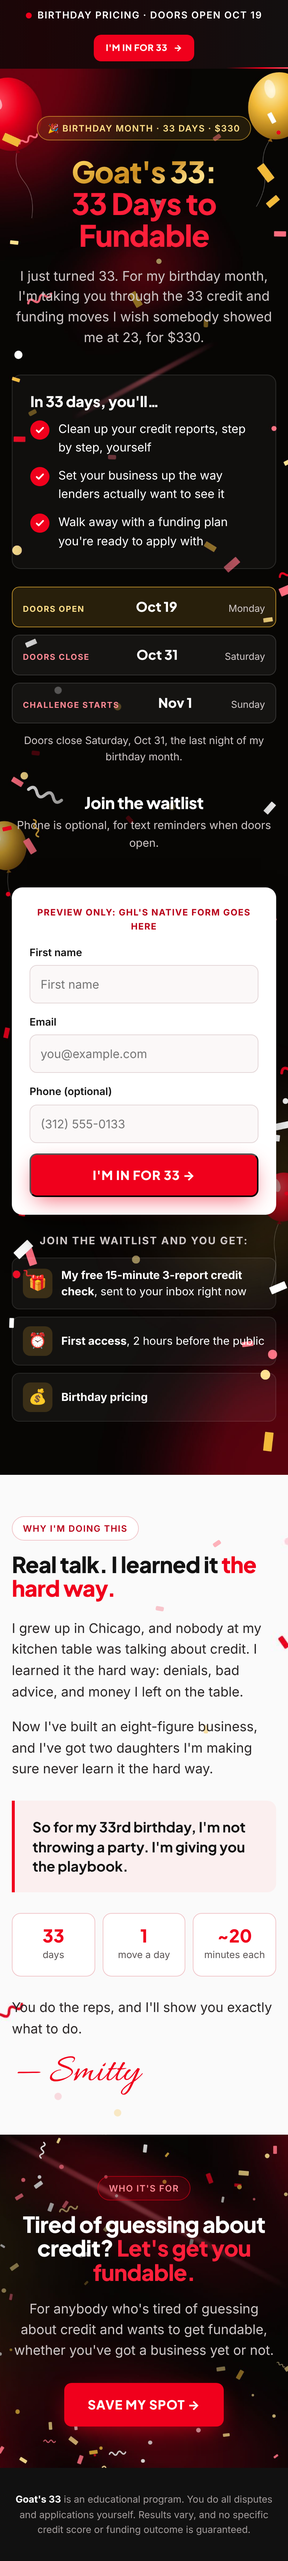
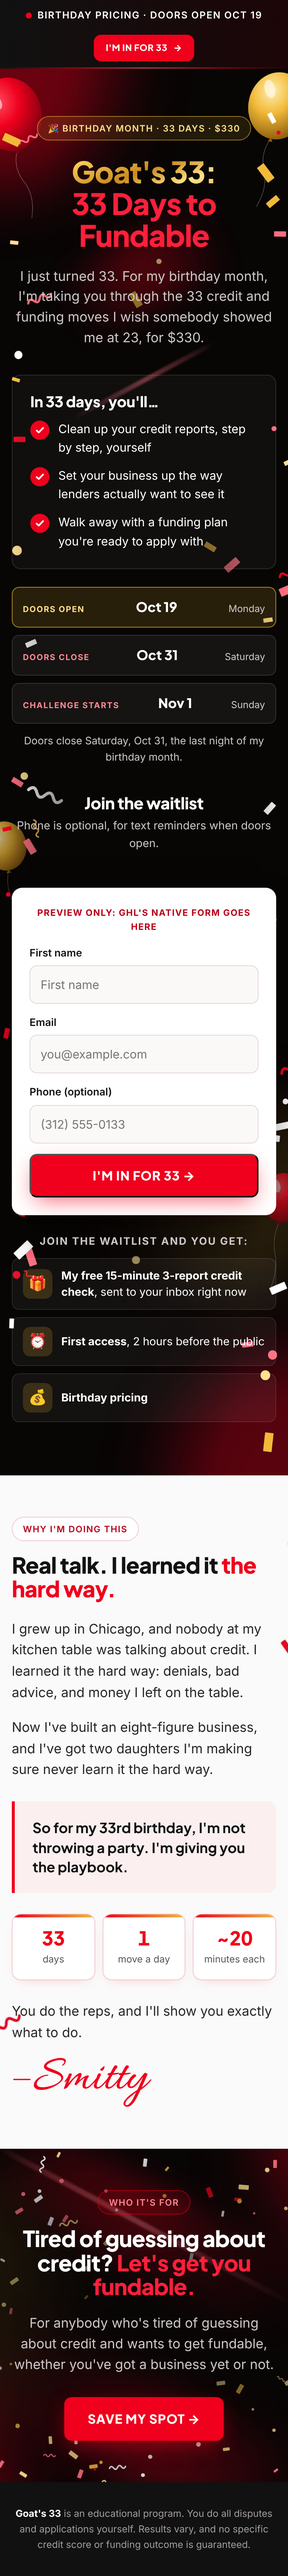
Animate the Goat's 33 stat row and make the signature font-proof
Stat cards rise in, count up and pop when scrolled into view, with a
red-gold accent bar and hover lift. The signature is now an inline SVG
traced from Allura that writes itself in, since GHL fell back to Comic
Sans when the web font didn't load. The top bar also links the page
fonts in case GHL ignores the @import.

Claude-Session: https://claude.ai/code/session_016EWm4T9j3p357VgxQ4fA9k

diff --git a/funnel/goats-33/preview/registration.html b/funnel/goats-33/preview/registration.html
@@ -3,7 +3,7 @@
 <style>/* Goat's 33 · GLOBAL STYLES (pure CSS)
    Paste ONCE per page into GHL: Page Settings → Custom CSS. Paste the whole file, nothing else.
    Every block depends on this. To rebrand, change the --wf-* colors below. */
-@import url("https://fonts.googleapis.com/css2?family=Inter:wght@400;500;600;700&family=Plus+Jakarta+Sans:wght@700;800&family=Allura&display=swap");
+@import url("https://fonts.googleapis.com/css2?family=Inter:wght@400;500;600;700&family=Plus+Jakarta+Sans:wght@700;800&display=swap");
 
 :root, .wf {
   --wf-red: #F0001C;
@@ -139,10 +139,33 @@ html { scroll-behavior: smooth; }
 .wf-why__callout { margin: 28px 0; padding: 22px 24px; border-left: 4px solid var(--wf-red); border-radius: 0 var(--wf-radius) var(--wf-radius) 0;
   background: var(--wf-blush); font-family: var(--wf-head); font-weight: 700; font-size: 21px; line-height: 1.4; color: var(--wf-ink); }
 .wf-stats { display: grid; grid-template-columns: repeat(3, 1fr); gap: 10px; margin: 0 0 28px; }
-.wf-stat { text-align: center; padding: 16px 8px; border: 1px solid var(--wf-blush-line); border-radius: var(--wf-radius); background: #fff; }
-.wf-stat b { display: block; font-family: var(--wf-head); font-weight: 800; font-size: 30px; color: var(--wf-red); line-height: 1.1; }
+.wf-stat { position: relative; overflow: hidden; text-align: center; padding: 18px 8px 16px; border: 1px solid var(--wf-blush-line); border-radius: var(--wf-radius);
+  background: #fff; box-shadow: 0 6px 18px -10px rgba(240,0,28,.25); transition: transform .25s, box-shadow .25s, border-color .25s; }
+.wf-stat::before { content: ""; position: absolute; left: 0; right: 0; top: 0; height: 4px; background: linear-gradient(90deg, var(--wf-red), var(--wf-gold), var(--wf-red));
+  background-size: 200% 100%; animation: wf-stat-bar 4s linear infinite; }
+.wf-stat:hover { transform: translateY(-4px); border-color: var(--wf-red); box-shadow: 0 16px 30px -12px rgba(240,0,28,.45); }
+.wf-stat b { display: block; font-family: var(--wf-head); font-weight: 800; font-size: 34px; color: var(--wf-red); line-height: 1.1; font-variant-numeric: tabular-nums; }
 .wf-stat span { font-size: 13px; color: var(--wf-muted); }
-.wf-sign { font-family: "Allura", cursive; font-size: 54px; line-height: 1; color: var(--wf-red); margin-top: 8px; }
+.wf-stat.is-done b { animation: wf-stat-pop .5s cubic-bezier(.3, 1.6, .5, 1); }
+@keyframes wf-stat-bar { to { background-position: -200% 0; } }
+@keyframes wf-stat-pop { 50% { transform: scale(1.18); text-shadow: 0 0 18px rgba(240,0,28,.45); } }
+/* Scroll-in states: only when JS has marked the section (.wf-anim) */
+.wf-anim .wf-stat { opacity: 0; transform: translateY(24px); }
+.wf-anim .wf-stats.is-in .wf-stat { opacity: 1; transform: none; transition: opacity .6s, transform .6s cubic-bezier(.2, .8, .2, 1), box-shadow .25s, border-color .25s; }
+.wf-anim .wf-stats.is-in .wf-stat:nth-child(2) { transition-delay: .15s; }
+.wf-anim .wf-stats.is-in .wf-stat:nth-child(3) { transition-delay: .3s; }
+.wf-anim .wf-stats.is-in .wf-stat:hover { transform: translateY(-4px); transition-delay: 0s; }
+
+/* Signature: an inline SVG (no font needed) that writes itself in */
+.wf-sign { display: block; width: 230px; height: auto; margin-top: 6px; overflow: visible; }
+.wf-sign path { fill: var(--wf-red); stroke: var(--wf-red); stroke-width: 6; stroke-linecap: round; stroke-linejoin: round; }
+.wf-sign__dash { fill: none !important; stroke-width: 26 !important; }
+.wf-anim .wf-sign path { stroke-dasharray: 1; stroke-dashoffset: 1; fill-opacity: 0; }
+.wf-anim .wf-sign.is-in .wf-sign__dash { animation: wf-sign-draw .4s ease-out forwards; }
+.wf-anim .wf-sign.is-in .wf-sign__name { animation: wf-sign-draw 2.2s ease-in-out .3s forwards, wf-sign-fill .6s ease-out 2.2s forwards; }
+@keyframes wf-sign-draw { to { stroke-dashoffset: 0; } }
+@keyframes wf-sign-fill { to { fill-opacity: 1; } }
+@media (prefers-reduced-motion: reduce) { .wf-stat::before { animation: none; } }
 
 /* Who it's for */
 .wf-who h2 { margin: 16px 0 20px; }
@@ -160,7 +183,8 @@ html { scroll-behavior: smooth; }
   .wf-date { display: flex; align-items: baseline; justify-content: space-between; gap: 8px; text-align: left; padding: 12px 14px; }
   .wf-date__day { margin-top: 0; }
   .wf-top__msg { width: 100%; text-align: center; }
-  .wf-stat b { font-size: 24px; }
+  .wf-stat b { font-size: 26px; }
+  .wf-sign { width: 190px; }
   .wf-why__callout { font-size: 19px; }
 }
 </style><style>
@@ -178,6 +202,8 @@ body{margin:0;background:#0A0606}
 <!-- Goat's 33 · 01 TOP BAR · own GHL section, padding 0, no background
      Effects: pulsing live dot, red light sweeping the bottom edge, button shine + arrow nudge.
      All motion stops for visitors who have "reduce motion" turned on. -->
+<!-- Loads the page fonts too, in case GHL ignores the @import in Custom CSS. -->
+<link rel="stylesheet" href="https://fonts.googleapis.com/css2?family=Inter:wght@400;500;600;700&family=Plus+Jakarta+Sans:wght@700;800&display=swap">
 <style>
   .wf-top { position: relative; overflow: hidden;
     background: linear-gradient(90deg, #111 0%, #1c0507 50%, #111 100%); background-size: 200% 100%;
@@ -274,14 +300,45 @@ body{margin:0;background:#0A0606}
     </div>
     <div class="wf-why__callout">So for my 33rd birthday, I'm not throwing a party. I'm giving you the playbook.</div>
     <div class="wf-stats">
-      <div class="wf-stat"><b>33</b><span>days</span></div>
-      <div class="wf-stat"><b>1</b><span>move a day</span></div>
-      <div class="wf-stat"><b>~20</b><span>minutes each</span></div>
+      <div class="wf-stat"><b data-count="33">33</b><span>days</span></div>
+      <div class="wf-stat"><b data-count="1">1</b><span>move a day</span></div>
+      <div class="wf-stat"><b data-count="20" data-prefix="~">~20</b><span>minutes each</span></div>
     </div>
     <p class="wf-why__body">You do the reps, and I'll show you exactly what to do.</p>
-    <div class="wf-sign" aria-label="Smitty">— Smitty</div>
+    <svg class="wf-sign" viewBox="-427 -614 2787 1003" role="img" aria-label="Smitty"><path class="wf-sign__dash" pathLength="1" d="M-387 -170 H-67"/><path class="wf-sign__name" pathLength="1" d="M163 34Q93 34 53 10.5Q13 -13 13 -56Q13 -100 39 -137.5Q65 -175 106.5 -202.5Q148 -230 193.5 -245.5Q239 -261 278 -261Q298 -261 298 -255Q298 -246 277 -246Q240 -246 196.5 -228.0Q153 -210 119 -178Q92 -154 78.5 -129.5Q65 -105 65 -84Q65 -53 94 -32.5Q123 -12 181 -12Q215 -12 250 -17.5Q285 -23 313.5 -30.0Q342 -37 357 -41Q394 -53 431.5 -70.0Q469 -87 499 -108.5Q529 -130 543 -152Q551 -164 554.5 -175.0Q558 -186 558 -196Q558 -224 533 -243.5Q508 -263 469 -279.0Q430 -295 386 -309.5Q342 -324 303 -340.0Q264 -356 239 -376.5Q214 -397 214 -426Q214 -459 238.5 -485.5Q263 -512 301.5 -532.5Q340 -553 384 -566.5Q428 -580 468 -587.0Q508 -594 534 -594Q644 -594 644 -539Q644 -517 626 -488Q618 -473 603 -459.5Q588 -446 580 -446Q574 -446 574 -453Q574 -456 585 -465.5Q596 -475 607 -489.0Q618 -503 618 -517Q618 -538 594.5 -549.0Q571 -560 533 -560Q515 -560 481 -554.5Q447 -549 407 -537.0Q367 -525 330 -505Q261 -467 261 -440Q261 -420 300 -402Q329 -389 367 -375.0Q405 -361 444 -345.0Q483 -329 516.5 -309.0Q550 -289 570.5 -264.5Q591 -240 591 -209Q591 -167 545 -123Q509 -89 461.5 -60.0Q414 -31 361.5 -10.0Q309 11 258 22.5Q207 34 163 34Z M614 13Q606 13 609 6Q613 -1 623.5 -29.5Q634 -58 647.5 -97.0Q661 -136 674 -172Q664 -157 652.5 -143.0Q641 -129 633 -120Q630 -117 629 -117Q626 -117 626 -123Q626 -135 632 -145Q653 -172 664 -187.5Q675 -203 682.5 -215.5Q690 -228 698 -244Q700 -255 705.5 -271.0Q711 -287 732 -287Q763 -287 763 -274Q763 -270 761 -265.5Q759 -261 757 -256Q745 -229 731 -194.0Q717 -159 705.5 -128.0Q694 -97 688 -80Q699 -94 721 -119.5Q743 -145 771.5 -175.5Q800 -206 830.5 -233.5Q861 -261 888 -279.0Q915 -297 934 -297Q957 -297 957 -271Q957 -251 941 -219Q934 -204 922 -178.5Q910 -153 903 -140Q921 -156 944 -175.5Q967 -195 992.5 -212.0Q1018 -229 1040 -237Q1045 -239 1060 -243.5Q1075 -248 1086 -248Q1101 -248 1101 -238Q1101 -231 1094 -223Q1077 -197 1063.5 -167.5Q1050 -138 1042 -112.0Q1034 -86 1032 -70Q1031 -66 1031 -62.5Q1031 -59 1031 -55Q1031 -15 1057 -15Q1073 -15 1098 -32.5Q1123 -50 1149 -75.5Q1175 -101 1196.5 -124.5Q1218 -148 1226 -160Q1229 -163 1232 -163Q1236 -163 1238.5 -160.0Q1241 -157 1239 -152Q1230 -135 1208.5 -109.5Q1187 -84 1160.5 -58.5Q1134 -33 1109 -15Q1096 -5 1076.5 2.5Q1057 10 1037 10Q1019 10 1004.5 2.0Q990 -6 983 -28Q980 -37 980 -51Q980 -73 986 -101.0Q992 -129 999 -148Q1004 -162 1012.5 -179.5Q1021 -197 1028 -209Q997 -197 968 -173.0Q939 -149 915.5 -124.5Q892 -100 876 -84Q872 -73 860.5 -66.0Q849 -59 839 -59Q824 -59 824 -72Q824 -77 827 -84Q837 -108 849.5 -133.5Q862 -159 872.5 -180.0Q883 -201 887 -209Q895 -223 895 -231Q895 -239 888 -239Q881 -239 865 -230.0Q849 -221 823 -198Q802 -179 777 -148.5Q752 -118 729 -86.0Q706 -54 688.5 -31.0Q671 -8 664 -4Q658 -1 640.5 6.0Q623 13 614 13Z M1372 -348Q1359 -348 1345 -350.5Q1331 -353 1331 -369Q1331 -372 1344.5 -383.0Q1358 -394 1372.5 -405.5Q1387 -417 1390 -419Q1407 -433 1411 -433Q1416 -433 1411 -420.0Q1406 -407 1406 -397Q1406 -392 1400 -380.0Q1394 -368 1386 -358.0Q1378 -348 1372 -348ZM1263 10Q1245 10 1230.5 2.0Q1216 -6 1209 -28Q1208 -31 1207.5 -34.0Q1207 -37 1207 -41Q1207 -61 1216 -91.0Q1225 -121 1238 -149Q1232 -141 1224 -129.5Q1216 -118 1201 -100Q1197 -96 1192 -96Q1185 -96 1185 -104Q1185 -110 1189 -114Q1215 -147 1235.5 -173.0Q1256 -199 1266 -217Q1266 -218 1265.5 -218.5Q1265 -219 1265 -220Q1265 -223 1268 -229Q1276 -253 1284.5 -269.5Q1293 -286 1303 -288Q1305 -288 1307 -288.5Q1309 -289 1311 -289Q1322 -289 1331 -284.0Q1340 -279 1340 -269Q1340 -260 1333.5 -247.0Q1327 -234 1317 -215Q1295 -169 1277.5 -131.5Q1260 -94 1258 -70Q1257 -66 1257 -62.5Q1257 -59 1257 -55Q1257 -15 1283 -15Q1299 -15 1324 -32.5Q1349 -50 1375 -75.5Q1401 -101 1422.5 -124.5Q1444 -148 1452 -160Q1455 -163 1458 -163Q1462 -163 1464.5 -160.0Q1467 -157 1465 -152Q1456 -135 1434.5 -109.5Q1413 -84 1386.5 -58.5Q1360 -33 1335 -15Q1322 -5 1302.5 2.5Q1283 10 1263 10Z M1489 10Q1471 10 1456.5 2.0Q1442 -6 1435 -28Q1434 -31 1433.5 -34.0Q1433 -37 1433 -41Q1433 -61 1442 -91.0Q1451 -121 1464 -149Q1458 -141 1450 -129.5Q1442 -118 1427 -100Q1423 -96 1418 -96Q1411 -96 1411 -104Q1411 -110 1415 -114Q1441 -147 1461.5 -173.0Q1482 -199 1492 -217Q1492 -219 1498 -229.5Q1504 -240 1514 -259Q1506 -258 1500.5 -257.5Q1495 -257 1491 -257Q1484 -257 1479 -263.0Q1474 -269 1478 -278Q1483 -292 1500 -294.0Q1517 -296 1530 -297Q1531 -299 1534 -299Q1546 -321 1557 -342.0Q1568 -363 1575.5 -377.0Q1583 -391 1583 -392Q1603 -424 1609 -434.5Q1615 -445 1625 -447Q1636 -448 1648.5 -446.0Q1661 -444 1665 -437Q1668 -433 1668 -427Q1668 -418 1664 -409.5Q1660 -401 1656 -396Q1652 -389 1645.5 -386.5Q1639 -384 1634 -374Q1624 -355 1612 -333.0Q1600 -311 1587 -291L1599 -292Q1623 -294 1644.5 -297.0Q1666 -300 1694 -299Q1699 -299 1704.5 -297.5Q1710 -296 1710 -293Q1710 -289 1684 -282Q1674 -278 1640.5 -273.5Q1607 -269 1572 -265Q1562 -246 1554 -233.5Q1546 -221 1543 -215Q1521 -169 1503.5 -131.5Q1486 -94 1484 -70Q1483 -66 1483 -62.5Q1483 -59 1483 -55Q1483 -15 1509 -15Q1525 -15 1550 -32.5Q1575 -50 1601 -75.5Q1627 -101 1648.5 -124.5Q1670 -148 1678 -160Q1681 -163 1684 -163Q1688 -163 1690.5 -160.0Q1693 -157 1691 -152Q1682 -135 1660.5 -109.5Q1639 -84 1612.5 -58.5Q1586 -33 1561 -15Q1548 -5 1528.5 2.5Q1509 10 1489 10Z M1715 10Q1697 10 1682.5 2.0Q1668 -6 1661 -28Q1660 -31 1659.5 -34.0Q1659 -37 1659 -41Q1659 -61 1668 -91.0Q1677 -121 1690 -149Q1684 -141 1676 -129.5Q1668 -118 1653 -100Q1649 -96 1644 -96Q1637 -96 1637 -104Q1637 -110 1641 -114Q1667 -147 1687.5 -173.0Q1708 -199 1718 -217Q1718 -219 1724 -229.5Q1730 -240 1740 -259Q1732 -258 1726.5 -257.5Q1721 -257 1717 -257Q1710 -257 1705 -263.0Q1700 -269 1704 -278Q1709 -292 1726 -294.0Q1743 -296 1756 -297Q1757 -299 1760 -299Q1772 -321 1783 -342.0Q1794 -363 1801.5 -377.0Q1809 -391 1809 -392Q1829 -424 1835 -434.5Q1841 -445 1851 -447Q1862 -448 1874.5 -446.0Q1887 -444 1891 -437Q1894 -433 1894 -427Q1894 -418 1890 -409.5Q1886 -401 1882 -396Q1878 -389 1871.5 -386.5Q1865 -384 1860 -374Q1850 -355 1838 -333.0Q1826 -311 1813 -291L1825 -292Q1849 -294 1870.5 -297.0Q1892 -300 1920 -299Q1925 -299 1930.5 -297.5Q1936 -296 1936 -293Q1936 -289 1910 -282Q1900 -278 1866.5 -273.5Q1833 -269 1798 -265Q1788 -246 1780 -233.5Q1772 -221 1769 -215Q1747 -169 1729.5 -131.5Q1712 -94 1710 -70Q1709 -66 1709 -62.5Q1709 -59 1709 -55Q1709 -15 1735 -15Q1751 -15 1776 -32.5Q1801 -50 1827 -75.5Q1853 -101 1874.5 -124.5Q1896 -148 1904 -160Q1907 -163 1910 -163Q1914 -163 1916.5 -160.0Q1919 -157 1917 -152Q1908 -135 1886.5 -109.5Q1865 -84 1838.5 -58.5Q1812 -33 1787 -15Q1774 -5 1754.5 2.5Q1735 10 1715 10Z M1850 367Q1838 364 1829 361Q1810 351 1802 338.5Q1794 326 1794 312Q1794 289 1809.5 262.5Q1825 236 1850 208Q1875 178 1913.5 147.0Q1952 116 1994 87.5Q2036 59 2068 38Q2085 3 2103.5 -37.0Q2122 -77 2139 -114.5Q2156 -152 2168.5 -183.0Q2181 -214 2187 -231Q2171 -212 2150 -183.5Q2129 -155 2104 -123.5Q2079 -92 2052.5 -64.0Q2026 -36 1998 -18.5Q1970 -1 1943 -1Q1903 -1 1887.5 -21.5Q1872 -42 1872 -70Q1872 -90 1877.5 -110.0Q1883 -130 1892 -147Q1898 -159 1911 -179.0Q1924 -199 1941 -220.0Q1958 -241 1975.5 -255.0Q1993 -269 2009 -269Q2028 -269 2038 -255.5Q2048 -242 2040 -237Q2024 -226 2000.5 -203.5Q1977 -181 1954 -152Q1948 -144 1939.5 -127.0Q1931 -110 1924 -90.5Q1917 -71 1917 -55Q1917 -48 1919 -41.5Q1921 -35 1926 -32Q1934 -26 1944 -26Q1958 -26 1975.5 -35.0Q1993 -44 2009 -58Q2065 -112 2109 -171.0Q2153 -230 2202 -288Q2205 -298 2219 -298Q2235 -298 2252.5 -288.5Q2270 -279 2267 -273Q2258 -253 2243.5 -220.0Q2229 -187 2212 -149.0Q2195 -111 2178 -73.5Q2161 -36 2147 -6Q2159 -12 2190 -36.0Q2221 -60 2258 -94.5Q2295 -129 2325 -166Q2331 -172 2334 -172Q2340 -172 2340 -164Q2340 -157 2334 -148Q2319 -128 2292.5 -101.0Q2266 -74 2235.5 -46.5Q2205 -19 2176 3.5Q2147 26 2126 38Q2095 104 2066 162.5Q2037 221 2013 257Q1997 282 1974 308.0Q1951 334 1924 351.5Q1897 369 1867 369Q1863 369 1859 368.5Q1855 368 1850 367ZM1853 345Q1861 345 1872.5 340.0Q1884 335 1897 324Q1935 293 1961 251.5Q1987 210 2007.5 164.0Q2028 118 2049 76Q2010 105 1961 144.5Q1912 184 1872 223Q1848 247 1837 270.5Q1826 294 1826 312Q1826 345 1853 345Z"/></svg>
   </div>
 </div>
+<script>
+/* Stat cards rise in and count up, and the signature writes itself, when each scrolls into view.
+   Without JS, or with reduced motion on, everything simply shows in its final state. */
+(function () {
+  if (!('IntersectionObserver' in window) || matchMedia('(prefers-reduced-motion: reduce)').matches) return;
+  function countUp(el, delay) {
+    var to = +el.dataset.count, pre = el.dataset.prefix || '', t0 = null, dur = 1400;
+    el.textContent = pre + 0;
+    setTimeout(function () {
+      requestAnimationFrame(function step(ts) {
+        t0 = t0 || ts;
+        var k = Math.min((ts - t0) / dur, 1);
+        el.textContent = pre + Math.round(to * (1 - Math.pow(1 - k, 3)));
+        if (k < 1) requestAnimationFrame(step); else el.parentNode.classList.add('is-done');
+      });
+    }, delay);
+  }
+  var io = new IntersectionObserver(function (entries) {
+    entries.forEach(function (e) {
+      if (!e.isIntersecting) return;
+      io.unobserve(e.target);
+      e.target.classList.add('is-in');
+      e.target.querySelectorAll('[data-count]').forEach(function (el, i) { countUp(el, 250 + i * 180); });
+    });
+  }, { threshold: 0.4 });
+  document.querySelectorAll('.wf-why:not(.wf-anim)').forEach(function (sec) {
+    sec.classList.add('wf-anim');
+    sec.querySelectorAll('.wf-stats, .wf-sign').forEach(function (el) { io.observe(el); });
+  });
+})();
+</script>
 </section>
 <section class="sec sec--dark"><!-- Goat's 33 · 05 WHO IT'S FOR · own GHL section, background = backgrounds/dark-section.jpg -->
 <div class="wf wf--dark wf-who">

diff --git a/funnel/goats-33/registration/04-why.html b/funnel/goats-33/registration/04-why.html
@@ -10,11 +10,42 @@
     </div>
     <div class="wf-why__callout">So for my 33rd birthday, I'm not throwing a party. I'm giving you the playbook.</div>
     <div class="wf-stats">
-      <div class="wf-stat"><b>33</b><span>days</span></div>
-      <div class="wf-stat"><b>1</b><span>move a day</span></div>
-      <div class="wf-stat"><b>~20</b><span>minutes each</span></div>
+      <div class="wf-stat"><b data-count="33">33</b><span>days</span></div>
+      <div class="wf-stat"><b data-count="1">1</b><span>move a day</span></div>
+      <div class="wf-stat"><b data-count="20" data-prefix="~">~20</b><span>minutes each</span></div>
     </div>
     <p class="wf-why__body">You do the reps, and I'll show you exactly what to do.</p>
-    <div class="wf-sign" aria-label="Smitty">— Smitty</div>
+    <svg class="wf-sign" viewBox="-427 -614 2787 1003" role="img" aria-label="Smitty"><path class="wf-sign__dash" pathLength="1" d="M-387 -170 H-67"/><path class="wf-sign__name" pathLength="1" d="M163 34Q93 34 53 10.5Q13 -13 13 -56Q13 -100 39 -137.5Q65 -175 106.5 -202.5Q148 -230 193.5 -245.5Q239 -261 278 -261Q298 -261 298 -255Q298 -246 277 -246Q240 -246 196.5 -228.0Q153 -210 119 -178Q92 -154 78.5 -129.5Q65 -105 65 -84Q65 -53 94 -32.5Q123 -12 181 -12Q215 -12 250 -17.5Q285 -23 313.5 -30.0Q342 -37 357 -41Q394 -53 431.5 -70.0Q469 -87 499 -108.5Q529 -130 543 -152Q551 -164 554.5 -175.0Q558 -186 558 -196Q558 -224 533 -243.5Q508 -263 469 -279.0Q430 -295 386 -309.5Q342 -324 303 -340.0Q264 -356 239 -376.5Q214 -397 214 -426Q214 -459 238.5 -485.5Q263 -512 301.5 -532.5Q340 -553 384 -566.5Q428 -580 468 -587.0Q508 -594 534 -594Q644 -594 644 -539Q644 -517 626 -488Q618 -473 603 -459.5Q588 -446 580 -446Q574 -446 574 -453Q574 -456 585 -465.5Q596 -475 607 -489.0Q618 -503 618 -517Q618 -538 594.5 -549.0Q571 -560 533 -560Q515 -560 481 -554.5Q447 -549 407 -537.0Q367 -525 330 -505Q261 -467 261 -440Q261 -420 300 -402Q329 -389 367 -375.0Q405 -361 444 -345.0Q483 -329 516.5 -309.0Q550 -289 570.5 -264.5Q591 -240 591 -209Q591 -167 545 -123Q509 -89 461.5 -60.0Q414 -31 361.5 -10.0Q309 11 258 22.5Q207 34 163 34Z M614 13Q606 13 609 6Q613 -1 623.5 -29.5Q634 -58 647.5 -97.0Q661 -136 674 -172Q664 -157 652.5 -143.0Q641 -129 633 -120Q630 -117 629 -117Q626 -117 626 -123Q626 -135 632 -145Q653 -172 664 -187.5Q675 -203 682.5 -215.5Q690 -228 698 -244Q700 -255 705.5 -271.0Q711 -287 732 -287Q763 -287 763 -274Q763 -270 761 -265.5Q759 -261 757 -256Q745 -229 731 -194.0Q717 -159 705.5 -128.0Q694 -97 688 -80Q699 -94 721 -119.5Q743 -145 771.5 -175.5Q800 -206 830.5 -233.5Q861 -261 888 -279.0Q915 -297 934 -297Q957 -297 957 -271Q957 -251 941 -219Q934 -204 922 -178.5Q910 -153 903 -140Q921 -156 944 -175.5Q967 -195 992.5 -212.0Q1018 -229 1040 -237Q1045 -239 1060 -243.5Q1075 -248 1086 -248Q1101 -248 1101 -238Q1101 -231 1094 -223Q1077 -197 1063.5 -167.5Q1050 -138 1042 -112.0Q1034 -86 1032 -70Q1031 -66 1031 -62.5Q1031 -59 1031 -55Q1031 -15 1057 -15Q1073 -15 1098 -32.5Q1123 -50 1149 -75.5Q1175 -101 1196.5 -124.5Q1218 -148 1226 -160Q1229 -163 1232 -163Q1236 -163 1238.5 -160.0Q1241 -157 1239 -152Q1230 -135 1208.5 -109.5Q1187 -84 1160.5 -58.5Q1134 -33 1109 -15Q1096 -5 1076.5 2.5Q1057 10 1037 10Q1019 10 1004.5 2.0Q990 -6 983 -28Q980 -37 980 -51Q980 -73 986 -101.0Q992 -129 999 -148Q1004 -162 1012.5 -179.5Q1021 -197 1028 -209Q997 -197 968 -173.0Q939 -149 915.5 -124.5Q892 -100 876 -84Q872 -73 860.5 -66.0Q849 -59 839 -59Q824 -59 824 -72Q824 -77 827 -84Q837 -108 849.5 -133.5Q862 -159 872.5 -180.0Q883 -201 887 -209Q895 -223 895 -231Q895 -239 888 -239Q881 -239 865 -230.0Q849 -221 823 -198Q802 -179 777 -148.5Q752 -118 729 -86.0Q706 -54 688.5 -31.0Q671 -8 664 -4Q658 -1 640.5 6.0Q623 13 614 13Z M1372 -348Q1359 -348 1345 -350.5Q1331 -353 1331 -369Q1331 -372 1344.5 -383.0Q1358 -394 1372.5 -405.5Q1387 -417 1390 -419Q1407 -433 1411 -433Q1416 -433 1411 -420.0Q1406 -407 1406 -397Q1406 -392 1400 -380.0Q1394 -368 1386 -358.0Q1378 -348 1372 -348ZM1263 10Q1245 10 1230.5 2.0Q1216 -6 1209 -28Q1208 -31 1207.5 -34.0Q1207 -37 1207 -41Q1207 -61 1216 -91.0Q1225 -121 1238 -149Q1232 -141 1224 -129.5Q1216 -118 1201 -100Q1197 -96 1192 -96Q1185 -96 1185 -104Q1185 -110 1189 -114Q1215 -147 1235.5 -173.0Q1256 -199 1266 -217Q1266 -218 1265.5 -218.5Q1265 -219 1265 -220Q1265 -223 1268 -229Q1276 -253 1284.5 -269.5Q1293 -286 1303 -288Q1305 -288 1307 -288.5Q1309 -289 1311 -289Q1322 -289 1331 -284.0Q1340 -279 1340 -269Q1340 -260 1333.5 -247.0Q1327 -234 1317 -215Q1295 -169 1277.5 -131.5Q1260 -94 1258 -70Q1257 -66 1257 -62.5Q1257 -59 1257 -55Q1257 -15 1283 -15Q1299 -15 1324 -32.5Q1349 -50 1375 -75.5Q1401 -101 1422.5 -124.5Q1444 -148 1452 -160Q1455 -163 1458 -163Q1462 -163 1464.5 -160.0Q1467 -157 1465 -152Q1456 -135 1434.5 -109.5Q1413 -84 1386.5 -58.5Q1360 -33 1335 -15Q1322 -5 1302.5 2.5Q1283 10 1263 10Z M1489 10Q1471 10 1456.5 2.0Q1442 -6 1435 -28Q1434 -31 1433.5 -34.0Q1433 -37 1433 -41Q1433 -61 1442 -91.0Q1451 -121 1464 -149Q1458 -141 1450 -129.5Q1442 -118 1427 -100Q1423 -96 1418 -96Q1411 -96 1411 -104Q1411 -110 1415 -114Q1441 -147 1461.5 -173.0Q1482 -199 1492 -217Q1492 -219 1498 -229.5Q1504 -240 1514 -259Q1506 -258 1500.5 -257.5Q1495 -257 1491 -257Q1484 -257 1479 -263.0Q1474 -269 1478 -278Q1483 -292 1500 -294.0Q1517 -296 1530 -297Q1531 -299 1534 -299Q1546 -321 1557 -342.0Q1568 -363 1575.5 -377.0Q1583 -391 1583 -392Q1603 -424 1609 -434.5Q1615 -445 1625 -447Q1636 -448 1648.5 -446.0Q1661 -444 1665 -437Q1668 -433 1668 -427Q1668 -418 1664 -409.5Q1660 -401 1656 -396Q1652 -389 1645.5 -386.5Q1639 -384 1634 -374Q1624 -355 1612 -333.0Q1600 -311 1587 -291L1599 -292Q1623 -294 1644.5 -297.0Q1666 -300 1694 -299Q1699 -299 1704.5 -297.5Q1710 -296 1710 -293Q1710 -289 1684 -282Q1674 -278 1640.5 -273.5Q1607 -269 1572 -265Q1562 -246 1554 -233.5Q1546 -221 1543 -215Q1521 -169 1503.5 -131.5Q1486 -94 1484 -70Q1483 -66 1483 -62.5Q1483 -59 1483 -55Q1483 -15 1509 -15Q1525 -15 1550 -32.5Q1575 -50 1601 -75.5Q1627 -101 1648.5 -124.5Q1670 -148 1678 -160Q1681 -163 1684 -163Q1688 -163 1690.5 -160.0Q1693 -157 1691 -152Q1682 -135 1660.5 -109.5Q1639 -84 1612.5 -58.5Q1586 -33 1561 -15Q1548 -5 1528.5 2.5Q1509 10 1489 10Z M1715 10Q1697 10 1682.5 2.0Q1668 -6 1661 -28Q1660 -31 1659.5 -34.0Q1659 -37 1659 -41Q1659 -61 1668 -91.0Q1677 -121 1690 -149Q1684 -141 1676 -129.5Q1668 -118 1653 -100Q1649 -96 1644 -96Q1637 -96 1637 -104Q1637 -110 1641 -114Q1667 -147 1687.5 -173.0Q1708 -199 1718 -217Q1718 -219 1724 -229.5Q1730 -240 1740 -259Q1732 -258 1726.5 -257.5Q1721 -257 1717 -257Q1710 -257 1705 -263.0Q1700 -269 1704 -278Q1709 -292 1726 -294.0Q1743 -296 1756 -297Q1757 -299 1760 -299Q1772 -321 1783 -342.0Q1794 -363 1801.5 -377.0Q1809 -391 1809 -392Q1829 -424 1835 -434.5Q1841 -445 1851 -447Q1862 -448 1874.5 -446.0Q1887 -444 1891 -437Q1894 -433 1894 -427Q1894 -418 1890 -409.5Q1886 -401 1882 -396Q1878 -389 1871.5 -386.5Q1865 -384 1860 -374Q1850 -355 1838 -333.0Q1826 -311 1813 -291L1825 -292Q1849 -294 1870.5 -297.0Q1892 -300 1920 -299Q1925 -299 1930.5 -297.5Q1936 -296 1936 -293Q1936 -289 1910 -282Q1900 -278 1866.5 -273.5Q1833 -269 1798 -265Q1788 -246 1780 -233.5Q1772 -221 1769 -215Q1747 -169 1729.5 -131.5Q1712 -94 1710 -70Q1709 -66 1709 -62.5Q1709 -59 1709 -55Q1709 -15 1735 -15Q1751 -15 1776 -32.5Q1801 -50 1827 -75.5Q1853 -101 1874.5 -124.5Q1896 -148 1904 -160Q1907 -163 1910 -163Q1914 -163 1916.5 -160.0Q1919 -157 1917 -152Q1908 -135 1886.5 -109.5Q1865 -84 1838.5 -58.5Q1812 -33 1787 -15Q1774 -5 1754.5 2.5Q1735 10 1715 10Z M1850 367Q1838 364 1829 361Q1810 351 1802 338.5Q1794 326 1794 312Q1794 289 1809.5 262.5Q1825 236 1850 208Q1875 178 1913.5 147.0Q1952 116 1994 87.5Q2036 59 2068 38Q2085 3 2103.5 -37.0Q2122 -77 2139 -114.5Q2156 -152 2168.5 -183.0Q2181 -214 2187 -231Q2171 -212 2150 -183.5Q2129 -155 2104 -123.5Q2079 -92 2052.5 -64.0Q2026 -36 1998 -18.5Q1970 -1 1943 -1Q1903 -1 1887.5 -21.5Q1872 -42 1872 -70Q1872 -90 1877.5 -110.0Q1883 -130 1892 -147Q1898 -159 1911 -179.0Q1924 -199 1941 -220.0Q1958 -241 1975.5 -255.0Q1993 -269 2009 -269Q2028 -269 2038 -255.5Q2048 -242 2040 -237Q2024 -226 2000.5 -203.5Q1977 -181 1954 -152Q1948 -144 1939.5 -127.0Q1931 -110 1924 -90.5Q1917 -71 1917 -55Q1917 -48 1919 -41.5Q1921 -35 1926 -32Q1934 -26 1944 -26Q1958 -26 1975.5 -35.0Q1993 -44 2009 -58Q2065 -112 2109 -171.0Q2153 -230 2202 -288Q2205 -298 2219 -298Q2235 -298 2252.5 -288.5Q2270 -279 2267 -273Q2258 -253 2243.5 -220.0Q2229 -187 2212 -149.0Q2195 -111 2178 -73.5Q2161 -36 2147 -6Q2159 -12 2190 -36.0Q2221 -60 2258 -94.5Q2295 -129 2325 -166Q2331 -172 2334 -172Q2340 -172 2340 -164Q2340 -157 2334 -148Q2319 -128 2292.5 -101.0Q2266 -74 2235.5 -46.5Q2205 -19 2176 3.5Q2147 26 2126 38Q2095 104 2066 162.5Q2037 221 2013 257Q1997 282 1974 308.0Q1951 334 1924 351.5Q1897 369 1867 369Q1863 369 1859 368.5Q1855 368 1850 367ZM1853 345Q1861 345 1872.5 340.0Q1884 335 1897 324Q1935 293 1961 251.5Q1987 210 2007.5 164.0Q2028 118 2049 76Q2010 105 1961 144.5Q1912 184 1872 223Q1848 247 1837 270.5Q1826 294 1826 312Q1826 345 1853 345Z"/></svg>
   </div>
 </div>
+<script>
+/* Stat cards rise in and count up, and the signature writes itself, when each scrolls into view.
+   Without JS, or with reduced motion on, everything simply shows in its final state. */
+(function () {
+  if (!('IntersectionObserver' in window) || matchMedia('(prefers-reduced-motion: reduce)').matches) return;
+  function countUp(el, delay) {
+    var to = +el.dataset.count, pre = el.dataset.prefix || '', t0 = null, dur = 1400;
+    el.textContent = pre + 0;
+    setTimeout(function () {
+      requestAnimationFrame(function step(ts) {
+        t0 = t0 || ts;
+        var k = Math.min((ts - t0) / dur, 1);
+        el.textContent = pre + Math.round(to * (1 - Math.pow(1 - k, 3)));
+        if (k < 1) requestAnimationFrame(step); else el.parentNode.classList.add('is-done');
+      });
+    }, delay);
+  }
+  var io = new IntersectionObserver(function (entries) {
+    entries.forEach(function (e) {
+      if (!e.isIntersecting) return;
+      io.unobserve(e.target);
+      e.target.classList.add('is-in');
+      e.target.querySelectorAll('[data-count]').forEach(function (el, i) { countUp(el, 250 + i * 180); });
+    });
+  }, { threshold: 0.4 });
+  document.querySelectorAll('.wf-why:not(.wf-anim)').forEach(function (sec) {
+    sec.classList.add('wf-anim');
+    sec.querySelectorAll('.wf-stats, .wf-sign').forEach(function (el) { io.observe(el); });
+  });
+})();
+</script>

diff --git a/funnel/goats-33/registration/00-global-styles.css b/funnel/goats-33/registration/00-global-styles.css
@@ -1,7 +1,7 @@
 /* Goat's 33 · GLOBAL STYLES (pure CSS)
    Paste ONCE per page into GHL: Page Settings → Custom CSS. Paste the whole file, nothing else.
    Every block depends on this. To rebrand, change the --wf-* colors below. */
-@import url("https://fonts.googleapis.com/css2?family=Inter:wght@400;500;600;700&family=Plus+Jakarta+Sans:wght@700;800&family=Allura&display=swap");
+@import url("https://fonts.googleapis.com/css2?family=Inter:wght@400;500;600;700&family=Plus+Jakarta+Sans:wght@700;800&display=swap");
 
 :root, .wf {
   --wf-red: #F0001C;
@@ -137,10 +137,33 @@ html { scroll-behavior: smooth; }
 .wf-why__callout { margin: 28px 0; padding: 22px 24px; border-left: 4px solid var(--wf-red); border-radius: 0 var(--wf-radius) var(--wf-radius) 0;
   background: var(--wf-blush); font-family: var(--wf-head); font-weight: 700; font-size: 21px; line-height: 1.4; color: var(--wf-ink); }
 .wf-stats { display: grid; grid-template-columns: repeat(3, 1fr); gap: 10px; margin: 0 0 28px; }
-.wf-stat { text-align: center; padding: 16px 8px; border: 1px solid var(--wf-blush-line); border-radius: var(--wf-radius); background: #fff; }
-.wf-stat b { display: block; font-family: var(--wf-head); font-weight: 800; font-size: 30px; color: var(--wf-red); line-height: 1.1; }
+.wf-stat { position: relative; overflow: hidden; text-align: center; padding: 18px 8px 16px; border: 1px solid var(--wf-blush-line); border-radius: var(--wf-radius);
+  background: #fff; box-shadow: 0 6px 18px -10px rgba(240,0,28,.25); transition: transform .25s, box-shadow .25s, border-color .25s; }
+.wf-stat::before { content: ""; position: absolute; left: 0; right: 0; top: 0; height: 4px; background: linear-gradient(90deg, var(--wf-red), var(--wf-gold), var(--wf-red));
+  background-size: 200% 100%; animation: wf-stat-bar 4s linear infinite; }
+.wf-stat:hover { transform: translateY(-4px); border-color: var(--wf-red); box-shadow: 0 16px 30px -12px rgba(240,0,28,.45); }
+.wf-stat b { display: block; font-family: var(--wf-head); font-weight: 800; font-size: 34px; color: var(--wf-red); line-height: 1.1; font-variant-numeric: tabular-nums; }
 .wf-stat span { font-size: 13px; color: var(--wf-muted); }
-.wf-sign { font-family: "Allura", cursive; font-size: 54px; line-height: 1; color: var(--wf-red); margin-top: 8px; }
+.wf-stat.is-done b { animation: wf-stat-pop .5s cubic-bezier(.3, 1.6, .5, 1); }
+@keyframes wf-stat-bar { to { background-position: -200% 0; } }
+@keyframes wf-stat-pop { 50% { transform: scale(1.18); text-shadow: 0 0 18px rgba(240,0,28,.45); } }
+/* Scroll-in states: only when JS has marked the section (.wf-anim) */
+.wf-anim .wf-stat { opacity: 0; transform: translateY(24px); }
+.wf-anim .wf-stats.is-in .wf-stat { opacity: 1; transform: none; transition: opacity .6s, transform .6s cubic-bezier(.2, .8, .2, 1), box-shadow .25s, border-color .25s; }
+.wf-anim .wf-stats.is-in .wf-stat:nth-child(2) { transition-delay: .15s; }
+.wf-anim .wf-stats.is-in .wf-stat:nth-child(3) { transition-delay: .3s; }
+.wf-anim .wf-stats.is-in .wf-stat:hover { transform: translateY(-4px); transition-delay: 0s; }
+
+/* Signature: an inline SVG (no font needed) that writes itself in */
+.wf-sign { display: block; width: 230px; height: auto; margin-top: 6px; overflow: visible; }
+.wf-sign path { fill: var(--wf-red); stroke: var(--wf-red); stroke-width: 6; stroke-linecap: round; stroke-linejoin: round; }
+.wf-sign__dash { fill: none !important; stroke-width: 26 !important; }
+.wf-anim .wf-sign path { stroke-dasharray: 1; stroke-dashoffset: 1; fill-opacity: 0; }
+.wf-anim .wf-sign.is-in .wf-sign__dash { animation: wf-sign-draw .4s ease-out forwards; }
+.wf-anim .wf-sign.is-in .wf-sign__name { animation: wf-sign-draw 2.2s ease-in-out .3s forwards, wf-sign-fill .6s ease-out 2.2s forwards; }
+@keyframes wf-sign-draw { to { stroke-dashoffset: 0; } }
+@keyframes wf-sign-fill { to { fill-opacity: 1; } }
+@media (prefers-reduced-motion: reduce) { .wf-stat::before { animation: none; } }
 
 /* Who it's for */
 .wf-who h2 { margin: 16px 0 20px; }
@@ -158,6 +181,7 @@ html { scroll-behavior: smooth; }
   .wf-date { display: flex; align-items: baseline; justify-content: space-between; gap: 8px; text-align: left; padding: 12px 14px; }
   .wf-date__day { margin-top: 0; }
   .wf-top__msg { width: 100%; text-align: center; }
-  .wf-stat b { font-size: 24px; }
+  .wf-stat b { font-size: 26px; }
+  .wf-sign { width: 190px; }
   .wf-why__callout { font-size: 19px; }
 }

diff --git a/funnel/goats-33/registration/01-top-bar.html b/funnel/goats-33/registration/01-top-bar.html
@@ -1,6 +1,8 @@
 <!-- Goat's 33 · 01 TOP BAR · own GHL section, padding 0, no background
      Effects: pulsing live dot, red light sweeping the bottom edge, button shine + arrow nudge.
      All motion stops for visitors who have "reduce motion" turned on. -->
+<!-- Loads the page fonts too, in case GHL ignores the @import in Custom CSS. -->
+<link rel="stylesheet" href="https://fonts.googleapis.com/css2?family=Inter:wght@400;500;600;700&family=Plus+Jakarta+Sans:wght@700;800&display=swap">
 <style>
   .wf-top { position: relative; overflow: hidden;
     background: linear-gradient(90deg, #111 0%, #1c0507 50%, #111 100%); background-size: 200% 100%;
